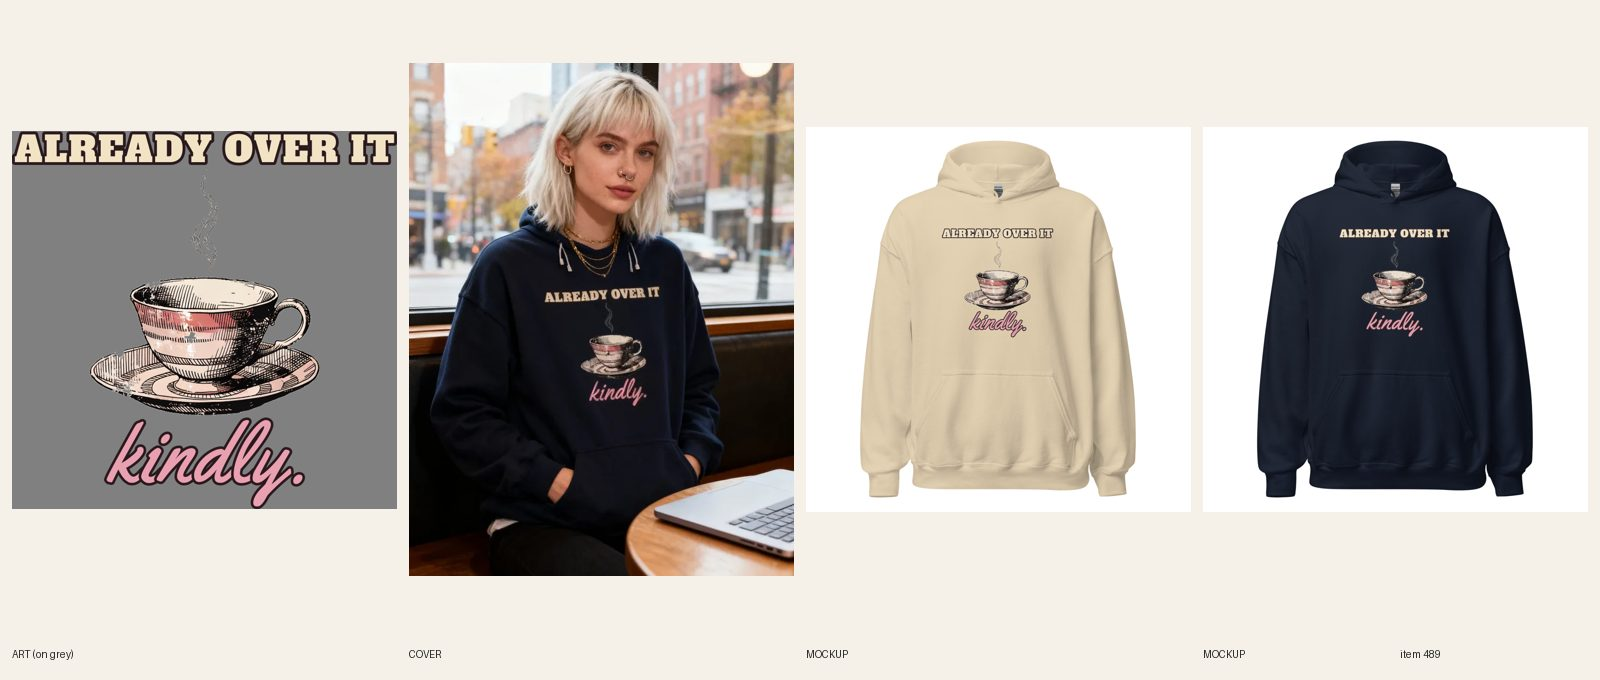
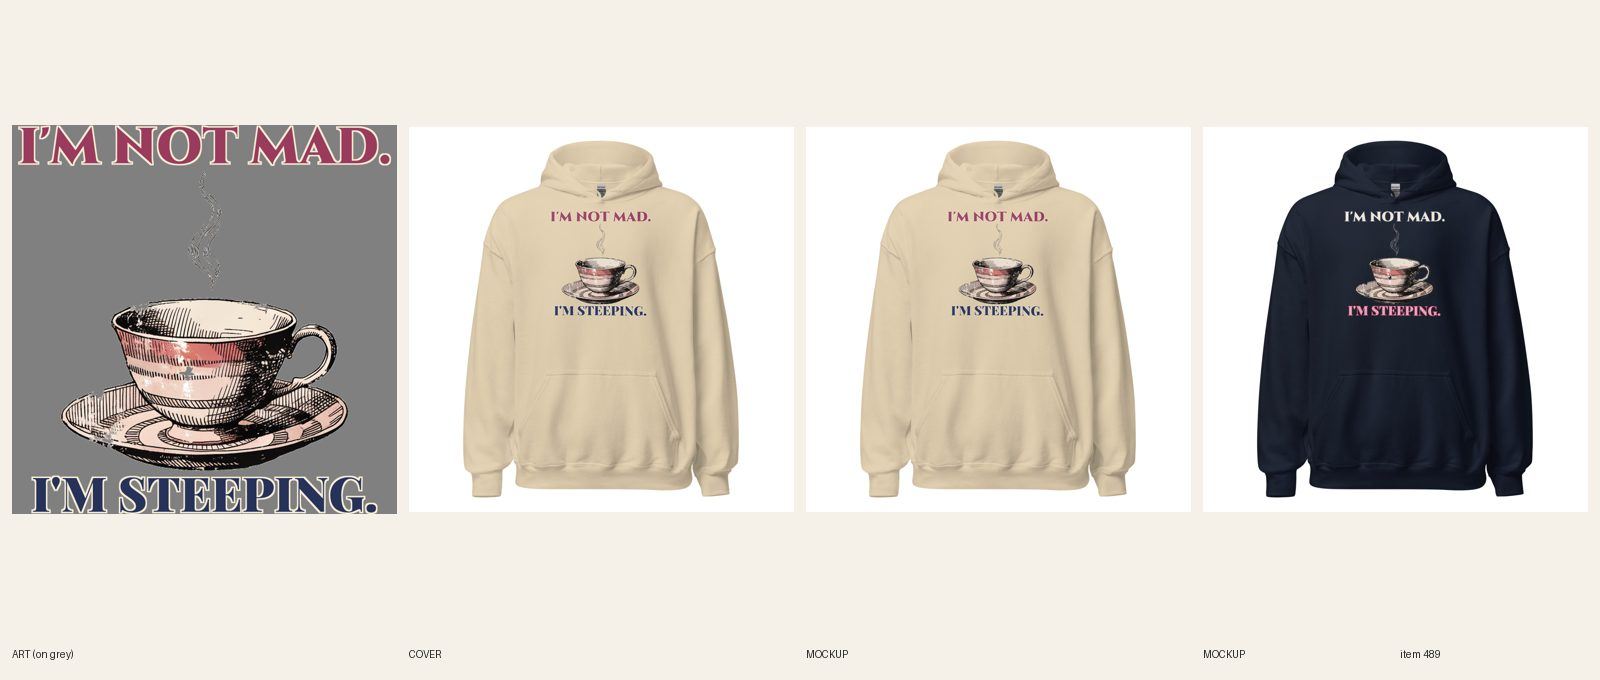
[C] review 489 (redo)
Claude-Session: https://claude.ai/code/session_01CCHcDj8LcJJ8qUPtKE3cvn

Changed region(s): [[0.0, 0.0926, 0.5, 0.8647], [0.8438, 0.3088, 0.9062, 0.4941], [0.5938, 0.3088, 0.6562, 0.4941]]

diff --git a/designs/c489/make.py b/designs/c489/make.py
@@ -1,0 +1,36 @@
+from PIL import Image, ImageDraw, ImageFont, ImageFilter
+FD='designs/fonts/'
+RED=(196,52,44,255); ROSE=(154,59,93,255); NAVY=(38,50,90,255); PINK=(244,166,192,255); DROSE=(122,31,60,255); CREAM=(246,236,214,255); BROWN=(58,36,24,255)
+def line(text,font,wfrac,W,fill,key,kw=31,track=0,var=None):
+    def mk(sz):
+        f=ImageFont.truetype(FD+font,sz)
+        if var: f.set_variation_by_axes(var)
+        return f
+    f=mk(800); adv=[f.getlength(c) for c in text]
+    tot=sum(adv)+track*(len(text)-1); size=int(800*W*wfrac/tot)
+    f=mk(size); adv=[f.getlength(c) for c in text]; tr=int(track*size/800)
+    asc,desc=f.getmetrics(); tot=int(sum(adv)+tr*(len(text)-1))
+    pad=80; im=Image.new('RGBA',(tot+2*pad,asc+desc+2*pad),(0,0,0,0))
+    def draw(layer,col):
+        d=ImageDraw.Draw(layer); x=pad
+        for c,a in zip(text,adv): d.text((x,pad),c,font=f,fill=col); x+=a+tr
+    k=Image.new('L',im.size,0); d=ImageDraw.Draw(k); x=pad
+    for c,a in zip(text,adv): d.text((x,pad),c,font=f,fill=255); x+=a+tr
+    k=k.filter(ImageFilter.MaxFilter(kw)); im.paste(Image.new('RGBA',im.size,key),(0,0),k)
+    draw(im,fill)
+    return im.crop(im.getbbox())
+def build(tag,c1,k1,c2,k2,bgc):
+    im=Image.open('docs/print-files/489-already-over-it-kindly.png').convert('RGBA'); W=im.width
+    art=im.crop((0,381,W,2445)); art=art.crop(art.getbbox()); art=art.resize((int(art.width*1.25),int(art.height*1.25)),Image.LANCZOS)
+    h1=line("I'M NOT MAD.",'Cinzel[wght].ttf',0.97,W,c1,k1,kw=27,var=[900])
+    h2=line("I'M STEEPING.",'PlayfairDisplay[wght].ttf',0.90,W,c2,k2,kw=27,var=[900])
+    print(tag,'h1',h1.size,'h2',h2.size,'ratio h2/h1',h2.height/h1.height,'art',art.size)
+    g=40; H=h1.height+g+art.height+g+h2.height
+    out=Image.new('RGBA',(W,H),(0,0,0,0))
+    out.alpha_composite(h1,((W-h1.width)//2,0)); y=h1.height+g
+    out.alpha_composite(art,((W-art.width)//2,y)); y+=art.height+g
+    out.alpha_composite(h2,((W-h2.width)//2,y))
+    out.save(f'docs/print-files/489-v2-steeping-{tag}.png'); print(out.size,H/W)
+    bg=Image.new('RGBA',out.size,bgc); bg.alpha_composite(out); bg.convert('RGB').resize((600,int(600*H/W))).save(f'designs/c489/prev_{tag}.png')
+build('sand',ROSE,CREAM,NAVY,CREAM,(214,196,160,255))
+build('navy',CREAM,NAVY,PINK,DROSE,(38,50,88,255))

diff --git a/docs/pipeline/489-womens-hoodie-already-over-it-kindly.md b/docs/pipeline/489-womens-hoodie-already-over-it-kindly.md
@@ -1,4 +1,4 @@
-status: BUILDING [C] 2026-10-20 06:26
+status: REVIEW
 lane: C
 type: new
 id: 489
@@ -32,3 +32,4 @@ kd: 30
 - 2026-10-17 21:41 UTC builder [C]: REVIEW. Sync 12/12. Sheet docs/review/489.jpg. design-crops and variant-photo audit cover published products only: rerun when ACTIVE. Local cohesion audit not run (no spec file); copy checked by hand against the art. 
 - 2026-10-17 22:39 UTC director: APPROVED, LIVE. ACTIVE + Online Store, Headless and Google & YouTube; audit --handle PASS (0 warn). Copy polished by the director first (R8: keyword counts, superlatives, false claims).
 - 2026-10-18 17:22 UTC director: QUALITY RESET grade C (new line + type), REDO. The product stays ACTIVE (same handle, URL, title keyword). 1. Line (R3.12, quality-reset 'Lines'): "ALREADY OVER IT / kindly.": Noun plus mild aside, same pattern as Making Biscuits; no laugh. Write 5 candidates, keep the one a stranger laughs at in 3 seconds without backstory; kill lines that only describe the picture; if none of the 5 is funny, PARK it. 2. Quality reset type bar (docs/backlog/quality-reset.md, 'The new bar'): headline at least 90% of the art width, heavy, colors pulled from the art; second line at least 45% of the headline's height, never a thin script on a dark or mid garment; use the lettering as a shape (arch, stacked lockup, words breaking into the art), not a plain bar above and a script line below; no font used on more than 1 in 6 of the last 30 designs. 3. Keep the art if it carries the new line, else one new illustration (R4/R5). New print means a new cover per R6.10, copy line one rewritten for the new joke (R8.3), and a fresh review sheet (R7.7). While quality-reset.md says PAUSED, only lane A builds, and only the samples step 2 names.
+- 2026-10-20 06:42 UTC builder [C]: REDO new line + type (grade C). 5 candidates, compared with Politely, No. / Oops. Anyway. / Wildly Low Maintenance: "I'M NOT MAD. / I'M STEEPING." (kept: tea steeping is slow-burning anger, two meanings, a stranger gets it from the cup), "ALREADY OVER IT, KINDLY" (old), "PER MY LAST SIP", "BREWING A RESPONSE", "THE TEA IS HOT. SO AM I.". Same teacup art scaled up 125% (it had a lot of empty width). I'M NOT MAD. Cinzel Black 97% of the print width; I'M STEEPING. Playfair Display Black 90% width (94% of the headline's height). Light-file (R5.3.8): Sand file 1090209662 has the headline rose with a cream keyline and the second line navy; Navy file 1090209701 has the headline cream and the second line pink with a dark-rose keyline (docs/print-files/489-v2-steeping-sand.png / -navy.png); logged: light file Sand on file 1090209662, headline fill rose. Print 3314 x 3345, FW 1500 TOP 0, 12/12 relinked per color (verified on the API before REVIEW). 2 fronts replaced in place, read at phone size. Copy, FAQ and SEO rewritten. Plain product shot. fal $0.

diff --git a/docs/intake-log.md b/docs/intake-log.md
@@ -2,6 +2,7 @@ RUNNING lane C since 2026-10-20 06:30 UTC
 RUNNING director since 2026-10-20 06:16 UTC
 2026-10-20 06:30 UTC — [E] Builder run: redid #466 Unisex Embroidered hoodie (line + type: REPLAYING / WHAT I SAID / IN 2014., new stitched lettering, Sand navy thread + Navy white thread, 12/12 synced). REVIEW. fal $0.
 2026-10-20 06:41 UTC — [B] Builder run: redid #380 round 2 (RULES: UNKNOWN. / SNACKS: PACKED., punch widened to headline width, ink widths 3598/3598 px, Sand + Sport Grey, 12/12 synced). REVIEW. fal $0.
+2026-10-20 06:42 UTC — [C] Builder run: redid #489 Women's Funny hoodie (new line + type: I'M NOT MAD. / I'M STEEPING., Cinzel Black + Playfair Black, same teacup art, Sand file 1090209662 + Navy file 1090209701, FW 1500 TOP 0, 12/12 relinked, 2 fronts replaced in place, copy + SEO updated). REVIEW. fal $0.
 RUNNING helper since 2026-10-20 05:44 UTC
 2026-10-20 06:55 UTC — [D] Director run: inbox nothing new. 6 LIVE (cap): #358 #650 #221 #237 #246 #251, audit PASS. Reviewed 25 redos: 19 approved and held (5 stale titles fixed), 6 REDO (#341 #354 #436 #506 #536 #621). Builder card 7h sharpened (height never makes up for punch width). New lane B brief #716 farming shirt (5,400 / KD 33). No Telegram (digest not due, nothing needs Sam). Lock released.
 2026-10-20 06:20 UTC — [E] Builder run: redid #472 Unisex Embroidered crewneck (line + type: CIRCLE / BACK / NEVER., twin of #473 hoodie, Sand navy thread + Navy white thread, 12/12 synced). REVIEW. fal $0.
